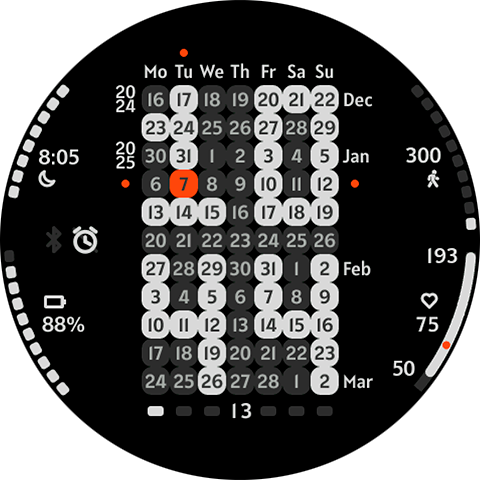
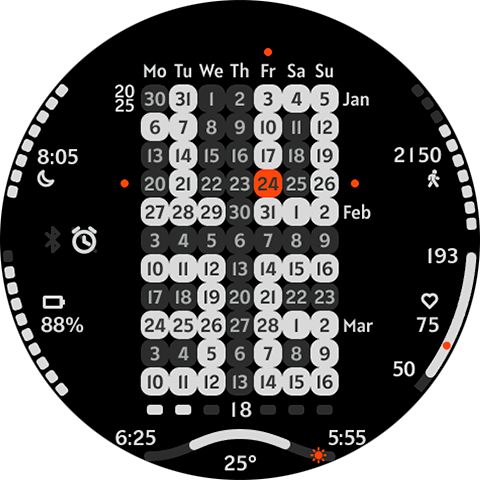
add weather widget

diff --git a/11-weeks/watchface/index.js b/11-weeks/watchface/index.js
@@ -10,6 +10,7 @@ import {
   GRID,
   SCREEN,
   SECONDS_PROGRESS_BAR,
+  WEATHER,
 } from '../utils/constants';
 
 import {
@@ -44,8 +45,15 @@ import {
   STEPS_ICON_IMAGE_PROPS,
   BATTERY_ICON_IMAGE_PROPS,
   AOD_DATE_IMAGE_PROPS,
+  WEATHER_SUNRISE_TEXT_PROPS,
+  WEATHER_SUNSET_TEXT_PROPS,
+  WEATHER_TEXT_IMAGE_PROPS,
+  WEATHER_PHASE_IMAGE_PROPS,
+  WEATHER_DOT_IMAGE_PROPS,
 } from './index.r.layout';
 import { clamp } from '../utils/clamp';
+import { getSunriseSunsetTimeStrings } from '../utils/getSunriseSunsetTimeStrings';
+import { getSunDayDuration, getSunPosition } from '../utils/getSunParams';
 
 const makeDigitMatrixCached = withWeakCache(makeDigitMatrix);
 const makeCalendarDataCached = withWeakCache(makeCalendarData);
@@ -66,6 +74,7 @@ WatchFace({
     this.buildPulse();
     this.buildBattery();
     this.buildSleepTime();
+    this.buildWeather();
 
     this.buildDisconnectionStatus();
     this.buildAlarmStatus();
@@ -592,6 +601,8 @@ WatchFace({
 
     const update = () => {
       console.log('sleep time updated');
+
+      sleepSensor.updateInfo();
       const sleepTime = getSleepTimeString(sleepSensor);
 
       if (sleepTime) {
@@ -654,6 +665,85 @@ WatchFace({
         console.log('ui resume (widget delegate)');
 
         if (hmSetting.getScreenType() == hmSetting.screen_type.AOD) {
+          update();
+        }
+      },
+    });
+  },
+
+  buildWeather() {
+    const phaseImage = hmUI.createWidget(
+      hmUI.widget.IMG,
+      WEATHER_PHASE_IMAGE_PROPS,
+    );
+    const sunriseText = hmUI.createWidget(
+      hmUI.widget.TEXT,
+      WEATHER_SUNRISE_TEXT_PROPS,
+    );
+    const sunsetText = hmUI.createWidget(
+      hmUI.widget.TEXT,
+      WEATHER_SUNSET_TEXT_PROPS,
+    );
+    hmUI.createWidget(hmUI.widget.TEXT_IMG, WEATHER_TEXT_IMAGE_PROPS);
+
+    const dotImage = hmUI.createWidget(
+      hmUI.widget.IMG,
+      WEATHER_DOT_IMAGE_PROPS,
+    );
+
+    const weatherSensor = hmSensor.createSensor(hmSensor.id.WEATHER);
+    const timeSensor = hmSensor.createSensor(hmSensor.id.TIME);
+    const is12HourFormat = hmSetting.getTimeFormat() === 0;
+
+    const calculatePhase = () => {
+      const sunDayDuration = getSunDayDuration(weatherSensor);
+      const ratio = (100 * sunDayDuration) / (24 * 60);
+      return Math.round(ratio / 5) * 5;
+    };
+
+    const calculateDotPosition = () => {
+      const ratio = getSunPosition(weatherSensor, timeSensor);
+      const { x, y, width, height } = WEATHER.sineWave;
+
+      const yDot =
+        height * (0.5 * Math.sin(ratio / (Math.PI / 20) - Math.PI / 2) + 0.5);
+      const xDot = ratio * width;
+
+      return {
+        x: Math.round(x + xDot - WEATHER.dot.width / 2),
+        y: Math.round(y + height - Math.round(yDot) - WEATHER.dot.height / 2),
+      };
+    };
+
+    const update = () => {
+      console.log('weather data updated');
+
+      const [sunrise, sunset] = getSunriseSunsetTimeStrings(
+        weatherSensor,
+        is12HourFormat,
+      );
+
+      sunriseText.setProperty(hmUI.prop.TEXT, sunrise);
+      sunsetText.setProperty(hmUI.prop.TEXT, sunset);
+
+      phaseImage.setProperty(
+        hmUI.prop.SRC,
+        WEATHER.phaseImage.src.replace('%s', calculatePhase()),
+      );
+
+      const { x, y } = calculateDotPosition();
+      dotImage.setProperty(hmUI.prop.MORE, {
+        ...WEATHER_DOT_IMAGE_PROPS,
+        x,
+        y,
+      });
+    };
+
+    hmUI.createWidget(hmUI.widget.WIDGET_DELEGATE, {
+      resume_call: () => {
+        console.log('ui resume (widget delegate)');
+
+        if (hmSetting.getScreenType() == hmSetting.screen_type.WATCHFACE) {
           update();
         }
       },

diff --git a/11-weeks/utils/getSunParams.js b/11-weeks/utils/getSunParams.js
@@ -1,0 +1,66 @@
+/**
+ * Gets sunrise/sunset times for current day
+ * @param {Object} weatherSensor
+ * @returns {[Number, Number]} sunrise ans sunset times in mimutes
+ */
+function getSunriseSunsetTimes(weatherSensor) {
+  const { tideData } = weatherSensor.getForecastWeather();
+
+  if (!tideData.count) {
+    return [0, 0];
+  }
+
+  const { sunrise, sunset } = tideData.data[0] || {};
+
+  if (!sunrise || !sunset) {
+    return [0, 0];
+  }
+
+  const sunriseMinutes = sunrise.hour * 60 + sunrise.minute;
+  const sunsetMinutes = sunset.hour * 60 + sunset.minute;
+
+  return [sunriseMinutes, sunsetMinutes];
+}
+
+/**
+ * Calculates difference between two timestamps in minutes
+ * @param {Number} minute0 - first minute value
+ * @param {Number} minute1 - last minute value
+ * @returns {Number} - difference minute1 - minute0
+ */
+function calculateTimeDiff(minute0, minute1) {
+  if (minute1 < minute0) {
+    return 24 * 60 - minute0 + minute1;
+  }
+
+  return minute1 - minute0;
+}
+
+/**
+ * Calculates current day daytime duration in minutes
+ * @param {Object} weatherSensor
+ * @returns {Number}
+ */
+export function getSunDayDuration(weatherSensor) {
+  const [sunriseMinutes, sunsetMinutes] = getSunriseSunsetTimes(weatherSensor);
+  return calculateTimeDiff(sunriseMinutes, sunsetMinutes);
+}
+
+/**
+ * Calculates current sun position as ratio where 0 is astronomic midnight and 0.5 is astronomic noon
+ * @param {Object} weatherSensor
+ * @param {Object} timeSensor
+ * @returns {Number}
+ */
+export function getSunPosition(weatherSensor, timeSensor) {
+  const [sunriseMinutes, _sunsetMinutes] = getSunriseSunsetTimes(weatherSensor);
+  const dayDuration = getSunDayDuration(weatherSensor);
+
+  const noon = (sunriseMinutes + dayDuration / 2) % (24 * 60);
+  const midnight = (noon + 12 * 60) % (24 * 60);
+
+  const { hour, minute } = timeSensor;
+  const now = 60 * hour + minute;
+
+  return calculateTimeDiff(midnight, now) / (24 * 60);
+}

diff --git a/11-weeks/watchface/index.r.layout.js b/11-weeks/watchface/index.r.layout.js
@@ -11,6 +11,7 @@ import {
   TIME_DIGITS_AOD,
   PULSE,
   SCREEN,
+  WEATHER,
 } from '../utils/constants';
 
 // #region Cell
@@ -123,7 +124,7 @@ export const PULSE_TODAY_ARC_PROPS = {
 
 export const PULSE_LAST_ARC_PROPS = {
   ...PULSE_BACKGROUND_ARC_PROPS,
-  color: COLORS.accent,
+  color: COLORS.accentDark,
   line_width: PULSE.progressArc.lineWidth - 2,
   corner_flag: 0,
 };
@@ -286,4 +287,51 @@ export const AOD_DATE_IMAGE_PROPS = {
   y: 0,
   src: 'cell_aod/0.png',
   show_level: hmUI.show_level.ONAL_AOD,
+};
+
+// #region Weather
+export const WEATHER_PHASE_IMAGE_PROPS = {
+  x: WEATHER.phaseImage.x,
+  y: WEATHER.phaseImage.y,
+  src: WEATHER.phaseImage.src.replace('%s', 0),
+  show_level: hmUI.show_level.ONLY_NORMAL,
+};
+
+export const WEATHER_SUNRISE_TEXT_PROPS = {
+  x: WEATHER.sunriseText.x,
+  y: WEATHER.sunriseText.y,
+  w: WEATHER.text.w,
+  h: WEATHER.text.h,
+  color: COLORS.primary,
+  text_size: WEATHER.text.textSize,
+  align_h: hmUI.align.LEFT,
+  align_v: hmUI.align.TOP,
+  font: FONTS.digits,
+  text: '',
+  show_level: hmUI.show_level.ONLY_NORMAL,
+};
+
+export const WEATHER_SUNSET_TEXT_PROPS = {
+  ...WEATHER_SUNRISE_TEXT_PROPS,
+  x: WEATHER.sunsetText.x,
+  y: WEATHER.sunsetText.y,
+  align_h: hmUI.align.RIGHT,
+};
+
+export const WEATHER_TEXT_IMAGE_PROPS = {
+  x: WEATHER.temp.x,
+  y: WEATHER.temp.y,
+  font_array: DIGITS.images,
+  type: hmUI.data_type.WEATHER_CURRENT,
+  negative_image: 'special_chars/minus.png',
+  unit_en: 'special_chars/degree.png',
+  align_h: hmUI.align.CENTER_H,
+  show_level: hmUI.show_level.ONLY_NORMAL,
+};
+
+export const WEATHER_DOT_IMAGE_PROPS = {
+  x: 0,
+  y: 0,
+  src: 'weather/dot.png',
+  show_level: hmUI.show_level.ONLY_NORMAL,
 };

diff --git a/11-weeks/utils/constants.js b/11-weeks/utils/constants.js
@@ -21,6 +21,7 @@ export const COLORS = {
   primary: 0xd9d9d9,
   secondary: 0x343334,
   accent: 0xf54a1b,
+  accentDark: 0xe6461a,
 };
 
 export const FONTS = {
@@ -111,7 +112,7 @@ export const SPECIAL_CHARS = {
 export const SECONDS_PROGRESS_BAR = {
   height: GRID.cell.height,
   width: px(196),
-  gapTop: px(2),
+  gapTop: px(0),
 };
 
 export const STEPS = {
@@ -154,7 +155,7 @@ export const PULSE = {
   icon: {
     x: px(417),
     y: px(292),
-  }
+  },
 };
 
 export const BATTERY = {
@@ -187,7 +188,7 @@ export const SLEEP = {
   icon: {
     x: px(38),
     y: px(170),
-  }
+  },
 };
 
 export const CONNECTION_STATUS = {
@@ -208,4 +209,39 @@ export const TIME_DIGITS_AOD = {
   images: new Array(10).fill(null).map((_, i) => `aod/${i}.png`),
   width: px(112),
   height: px(168),
+};
+
+export const WEATHER = {
+  phaseImage: {
+    x: px(142),
+    y: px(424),
+    src: 'weather/phase_%s.png',
+  },
+  sineWave: {
+    x: px(150),
+    y: px(432),
+    width: px(180),
+    height: px(22),
+  },
+  dot: {
+    width: px(28),
+    height: px(28),
+  },
+  text: {
+    width: px(60),
+    height: px(24),
+    textSize: TEXT_SIZE,
+  },
+  sunriseText: {
+    x: px(116),
+    y: px(422),
+  },
+  sunsetText: {
+    x: px(262),
+    y: px(422),
+  },
+  temp: {
+    x: px(218),
+    y: px(452),
+  },
 };

diff --git a/11-weeks/utils/getSunriseSunsetTimeStrings.js b/11-weeks/utils/getSunriseSunsetTimeStrings.js
@@ -1,0 +1,27 @@
+/**
+ * Gets today sunrise/sunset time and formats it
+ * @param {Object} weatherSensor
+ * @param {Boolean} is12HourFormat
+ * @returns {[String, String]} [sunriseTime, sunsetTime]
+ */
+export function getSunriseSunsetTimeStrings(weatherSensor, is12HourFormat) {
+  const { tideData } = weatherSensor.getForecastWeather();
+
+  if (!tideData.count) {
+    return ['', ''];
+  }
+
+  const { sunrise, sunset } = tideData.data[0] || {};
+
+  if (!sunrise || !sunset) {
+    return ['', ''];
+  }
+
+  const formatTime = (hour, minute, is12HourFormat) =>
+    `${is12HourFormat ? hour % 12 || 12 : hour}:${minute}`;
+
+  return [
+    formatTime(sunrise.hour, sunrise.minute, is12HourFormat),
+    formatTime(sunset.hour, sunset.minute, is12HourFormat),
+  ];
+}
